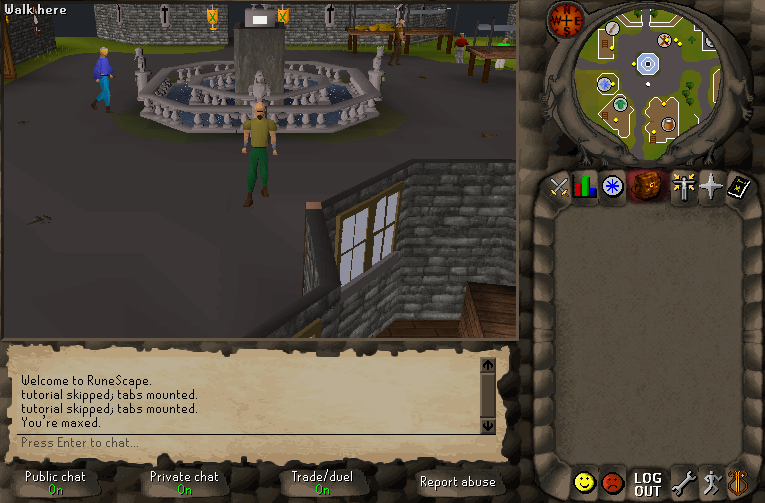
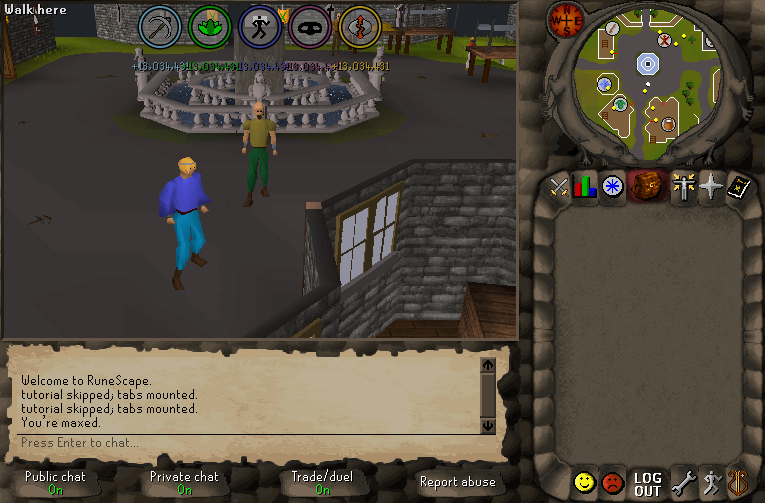
xp-drop-orbs: evict by arrival, not by a millisecond that ties
Two defects, one picture: the cs1live capture of this plugin had no plugin
pixels in it at all, and the state it was trying to photograph draws one
floating label where it should draw five.

1. orb_drop_add and orb_add both evicted "the oldest", and both measured
   oldest with a millisecond stamp. The case that overflows those tables is
   the case a millisecond cannot answer: one poll of UPDATE_STAT can raise
   every skill at once -- ~maxme, a quest reward, a lamp -- and then every
   entry carries the SAME at_ms, the strict `<` never moves the candidate off
   slot 0, and every gain after the eighth lands on that one slot. Nineteen
   gains left the table holding [skill 20, 1..7]; slots 1..7 were then
   cancelled for having no globe, so five globes stood over ONE label.

   Both tables now carry a strictly increasing `seq` and evict the smallest.
   That is the same "oldest goes" rule, said in the one unit that cannot tie,
   and it makes the relationship structural rather than lucky: the globe row
   keeps the last five arrivals and the drop table the last eight, so every
   globe born in a mass gain keeps its own label.

   A hover moves seq as well as at_ms, because a hover is a touch: at_ms is
   what holds a globe past its duration, and seq is what stops the next
   skill's gain evicting the globe under the pointer. Moving only the first
   would have put the globe a player is reading at the front of the queue.
[…]

diff --git a/src/plugin/plugins/xp_orbs.c b/src/plugin/plugins/xp_orbs.c
@@ -270,6 +270,8 @@ struct XpGlobe
     int level;
     /** When it appeared, or was last touched by a hover. */
     uint64_t at_ms;
+    /** Where it falls in the arrival order. @see orb_seq_next. */
+    uint64_t seq;
 };
 
 
@@ -285,6 +287,14 @@ struct XpGlobe
  * free slot takes the oldest -- the same rule the globes themselves use, and
  * for the same reason: at the point where six labels are in flight, the one
  * that has been readable longest is the one nobody is still reading.
+ *
+ * "Oldest" is `seq` and not `at_ms`, because the case that overflows this
+ * table is precisely the case where at_ms cannot answer: one poll of
+ * UPDATE_STAT can raise every skill at once -- ~maxme, a quest reward, a
+ * lamp -- and then all nine, or nineteen, gains carry the SAME millisecond.
+ * A clock comparison has no answer there, so whichever slot the scan reached
+ * first stayed put and every gain after the eighth landed on that one slot,
+ * leaving one label on screen out of five globes that had earned one.
  */
 struct XpDrop
 {
@@ -292,6 +302,8 @@ struct XpDrop
     int skill;
     int amount;
     uint64_t at_ms;
+    /** Where it falls in the arrival order. @see orb_seq_next. */
+    uint64_t seq;
 };
 
 #define ORB_DROP_MAX 8
@@ -449,6 +461,8 @@ struct XpOrbState
     struct XpGlobe globe[ORB_MAX_SHOWN];
     int globe_count;
     struct XpDrop drop[ORB_DROP_MAX];
+    /** Hands out the arrival order both tables evict by. @see orb_seq_next. */
+    uint64_t seq_next;
     int* seen_xp;
     struct XpTrack* track;
     int skill_count;
@@ -513,6 +527,7 @@ struct XpOrbState
 #define g_globe (state->globe)
 #define g_globe_count (state->globe_count)
 #define g_drop (state->drop)
+#define g_seq_next (state->seq_next)
 #define g_seen_xp (state->seen_xp)
 #define g_track (state->track)
 #define g_skill_count (state->skill_count)
@@ -1063,6 +1078,20 @@ orb_arc_offset(struct ToriRS_Api* api)
 
 /* -------------------------------------------------------------- the globes */
 
+/**
+ * The next arrival number, which is what both tables mean by "oldest".
+ *
+ * Strictly increasing per call, so two entries never tie however many gains
+ * share a millisecond -- a tie is the only thing a millisecond stamp cannot
+ * break, and it is the case that overflows these tables. @see struct XpDrop.
+ */
+static uint64_t
+orb_seq_next(struct XpOrbState* state)
+{
+    assert(state);
+    return ++g_seq_next;
+}
+
 /** Drop globe `slot`, keeping the rest in order. */
 static void
 orb_remove(struct XpOrbState* state, int slot)
@@ -1099,6 +1128,7 @@ orb_add(struct XpOrbState* state, int skill, int xp, int level, uint64_t now)
         g_globe[i].xp = xp;
         g_globe[i].level = level;
         g_globe[i].at_ms = now;
+        g_globe[i].seq = orb_seq_next(state);
         return;
     }
 
@@ -1106,7 +1136,7 @@ orb_add(struct XpOrbState* state, int skill, int xp, int level, uint64_t now)
     {
         int oldest = 0;
         for( int i = 1; i < g_globe_count; i++ )
-            if( g_globe[i].at_ms < g_globe[oldest].at_ms )
+            if( g_globe[i].seq < g_globe[oldest].seq )
                 oldest = i;
         orb_remove(state, oldest);
     }
@@ -1120,6 +1150,7 @@ orb_add(struct XpOrbState* state, int skill, int xp, int level, uint64_t now)
     g_globe[at].xp = xp;
     g_globe[at].level = level;
     g_globe[at].at_ms = now;
+    g_globe[at].seq = orb_seq_next(state);
     g_globe_count++;
 }
 
@@ -1142,13 +1173,14 @@ orb_drop_add(struct XpOrbState* state, int skill, int amount, uint64_t now)
             at = i;
             break;
         }
-        if( at < 0 || g_drop[i].at_ms < g_drop[at].at_ms )
+        if( at < 0 || g_drop[i].seq < g_drop[at].seq )
             at = i;
     }
     assert(at >= 0);
     g_drop[at].skill = skill;
     g_drop[at].amount = amount;
     g_drop[at].at_ms = now;
+    g_drop[at].seq = orb_seq_next(state);
 }
 
 /** Forget every globe and every session number. What a logout is. */
@@ -1755,7 +1787,13 @@ orb_plan(struct XpOrbState* state, struct OrbViewport const* viewport, uint64_t 
             if( dx * dx + dy * dy <= (size / 2) * (size / 2) )
             {
                 slot->picture.hovered = 1;
+                /* A hover is a TOUCH, and a touch has to move both clocks:
+                 * at_ms is what holds the globe past its duration, and seq is
+                 * what stops the next skill's gain evicting the one under the
+                 * pointer. Moving only the first put the globe a player was
+                 * reading at the front of the eviction queue. */
                 globe->at_ms = now;
+                globe->seq = orb_seq_next(state);
                 hovered_slot = i;
                 hovered_goal = next_xp > level_xp ? next_xp : 0;
             }

diff --git a/src/plugin/test/xp_orbs_test.c b/src/plugin/test/xp_orbs_test.c
@@ -1333,6 +1333,74 @@ main(void)
             CHECK(hi_last - lo_last == 40, "and where it finishes, by the same 40");
             PluginHost_ConfigSet(g_host, index, "drop_offset_y", "20");
         }
+        /*
+         * Nineteen skills raised in ONE poll -- ~maxme, a quest reward, a
+         * lamp, a skill cape. The globe row holds five and the drop table
+         * eight, so the table overflows and has to choose which labels to
+         * keep; it chooses by ARRIVAL, and the five skills that own a globe
+         * are the five that arrived last, so every globe keeps its own label.
+         *
+         * Before it chose that way it compared millisecond stamps -- which in
+         * one poll are all the SAME millisecond, so the scan never left slot 0
+         * and every gain after the eighth overwrote it. Five globes, ONE
+         * label, and nothing in any log to say so.
+         */
+        {
+            struct FakeControl const* many[8];
+            int saved_xp[25];
+            int saved_level[25];
+            int shown = 0;
+            int labelled = 0;
+            /* Every skill's reading is about to move, and the blocks after
+             * this one are written against the table as it stands. */
+            memcpy(saved_xp, g_xp, sizeof(saved_xp));
+            memcpy(saved_level, g_level, sizeof(saved_level));
+            g_now_ms += 30000;
+            frame();
+            g_now_ms += 600;
+            for( int skill = 0; skill <= 20; skill++ )
+            {
+                if( skill == 18 || skill == 19 )
+                    continue;
+                g_level[skill] = 50;
+                if( g_xp[skill] < g_level_xp[48] )
+                    g_xp[skill] = g_level_xp[48];
+                g_xp[skill] += 4242;
+            }
+            tick();
+            frame();
+            shown = globes(many);
+            CHECK(shown == 5, "nineteen gains in one poll fill the five-globe row");
+            for( int i = 0; i < shown; i++ )
+            {
+                int const centre = many[i]->x + many[i]->w / 2;
+                for( int c = 0; c < g_control_count; c++ )
+                {
+                    struct FakeControl const* label = &g_control[c];
+                    int label_centre;
+                    if( !label->alive || !label->image )
+                        continue;
+                    if( strncmp(label->key, "drop", 4) != 0 )
+                        continue;
+                    label_centre = label->x + label->w / 2;
+                    if( label_centre >= centre - 2 && label_centre <= centre + 2 )
+                    {
+                        labelled++;
+                        break;
+                    }
+                }
+            }
+            CHECK(labelled == shown, "and EVERY one of those globes keeps its own label");
+            /* Put the table back. A reading that goes DOWN re-seeds rather
+             * than reporting a negative gain, so one poll leaves the plugin
+             * where this block found it. */
+            memcpy(g_xp, saved_xp, sizeof(saved_xp));
+            memcpy(g_level, saved_level, sizeof(saved_level));
+            g_now_ms += 30000;
+            tick();
+            frame();
+            CHECK(globes(many) == 0, "and the row empties once they expire");
+        }
         g_now_ms += 30000;
         frame();
         CHECK(control_named("drop") == NULL, "expired labels remove their controls");
